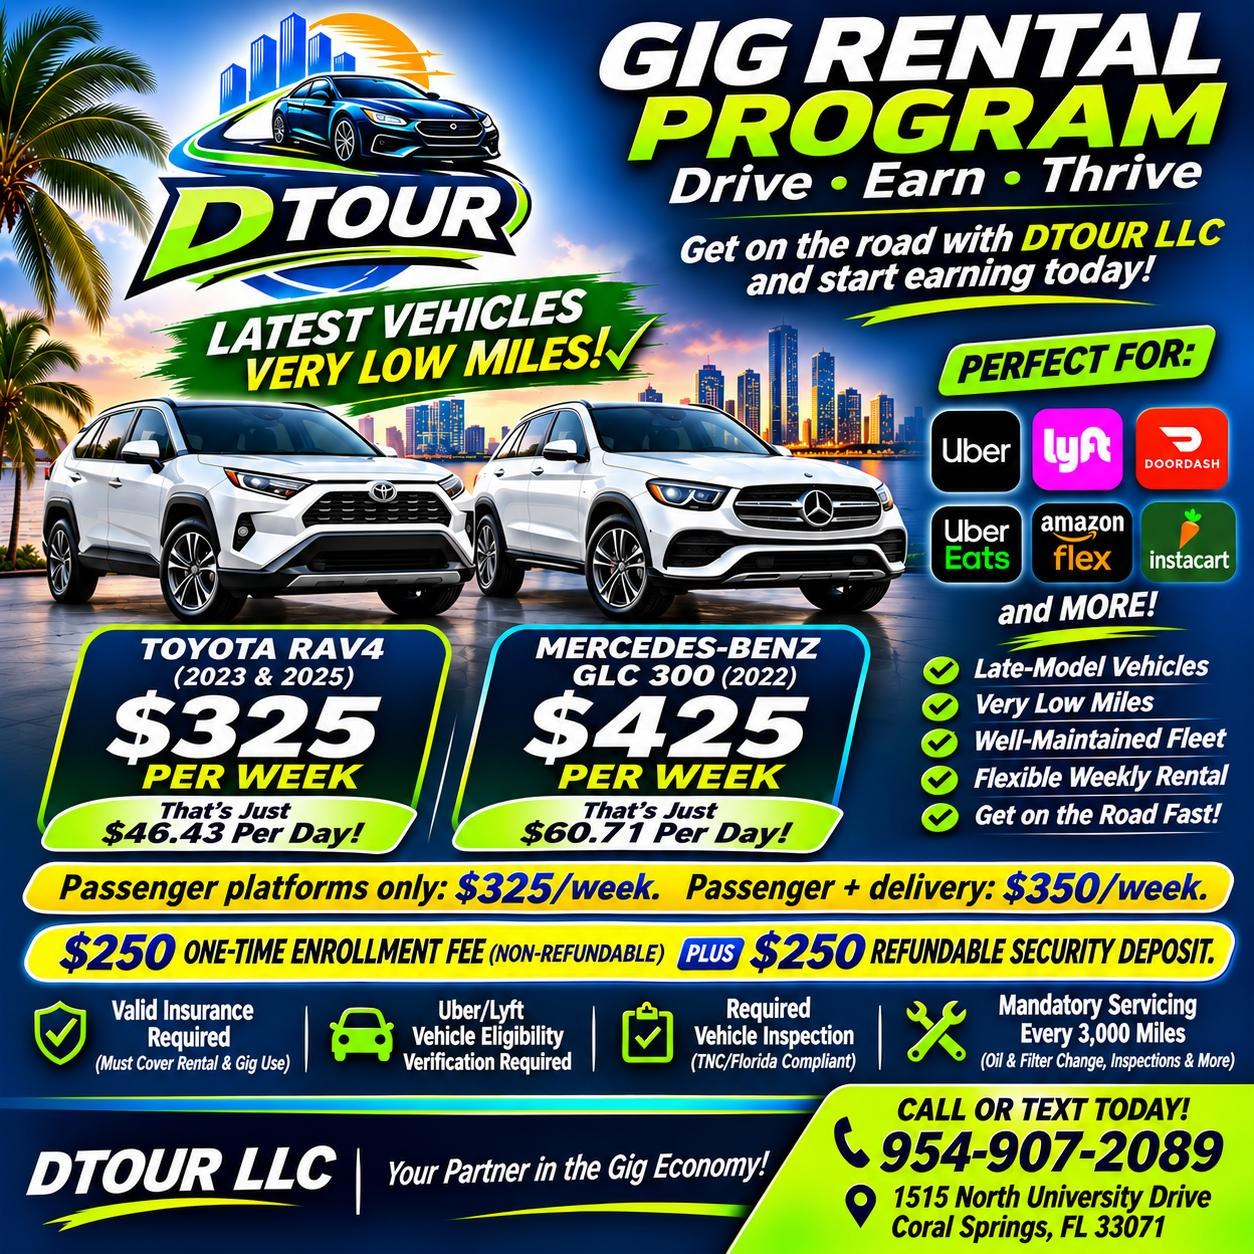
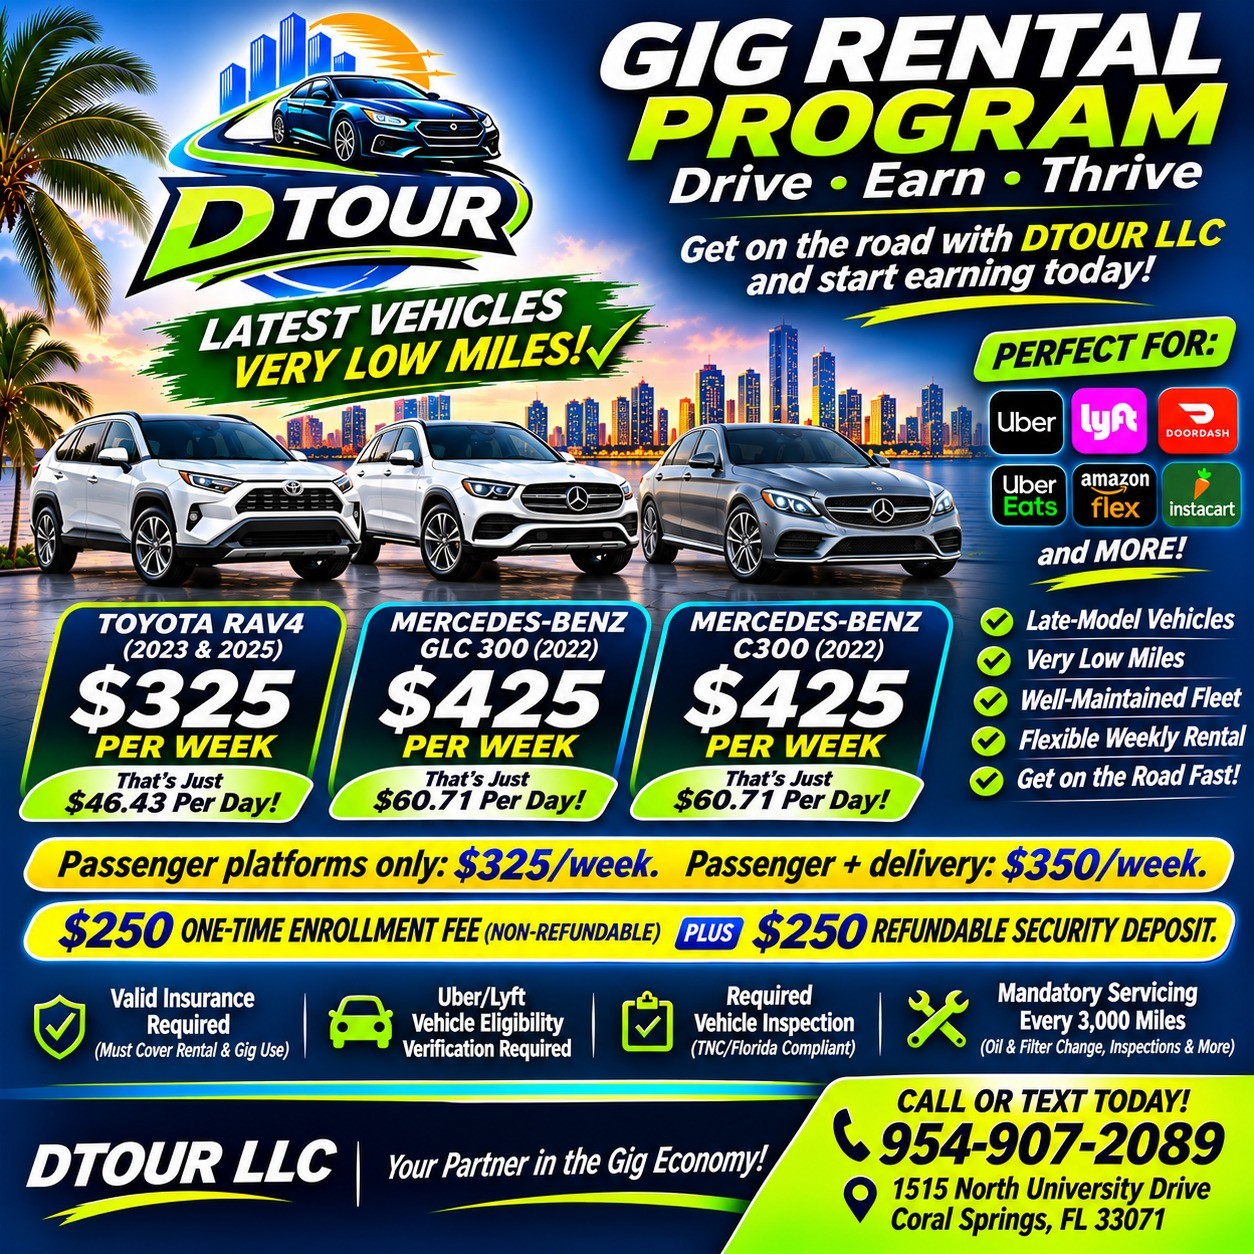
Update Gig Rental flyer to final version (C300 added, delivery pricing line) and sync price list

diff --git a/index.html b/index.html
@@ -506,14 +506,15 @@ src="https://www.facebook.com/tr?id=2842509399447021&ev=PageView&noscript=1"
   <p class="section-sub">Drive for Uber, Lyft, DoorDash and more. Weekly rentals, no long-term commitment.</p>
   <div class="gig-wrap">
     <div class="gig-flyer">
-      <img src="images/dtour-gig-rental-flyer.jpg?v=2" alt="Dtour LLC Gig Rental Program: Toyota RAV4 $325 per week, Mercedes-Benz GLC 300 $425 per week, $350 per week with delivery, $250 enrollment fee plus $250 refundable security deposit" onclick="openLightbox(this)" loading="lazy">
+      <img src="images/dtour-gig-rental-flyer.jpg?v=3" alt="Dtour LLC Gig Rental Program: Toyota RAV4 $325 per week, Toyota RAV4 $325, Mercedes-Benz GLC 300 $425, Mercedes-Benz C300 $425 per week, $350 per week for passenger plus delivery, $250 enrollment fee plus $250 refundable security deposit" onclick="openLightbox(this)" loading="lazy">
     </div>
     <div class="gig-info">
       <h3>Drive. Earn. Thrive.</h3>
       <ul>
         <li>🚙 Toyota RAV4: $325 per week</li>
         <li>🚘 Mercedes-Benz GLC 300: $425 per week</li>
-        <li>📦 Passenger + delivery apps: +$25 per week</li>
+        <li>🚗 Mercedes-Benz C300: $425 per week</li>
+        <li>📦 Passenger + delivery apps: $350 per week</li>
         <li>📅 Flexible weekly rental</li>
         <li>💵 $250 enrollment fee + $250 refundable deposit</li>
       </ul>
